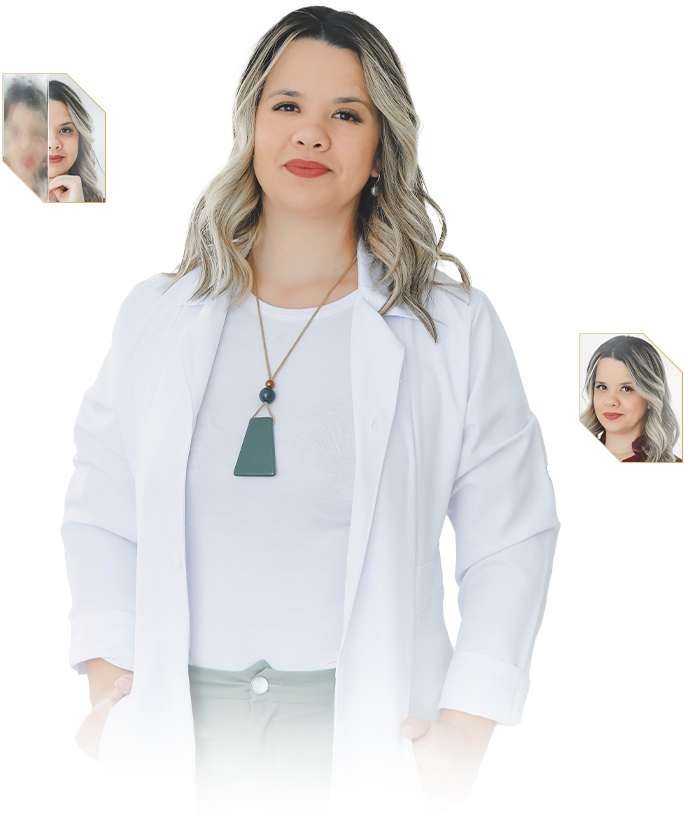
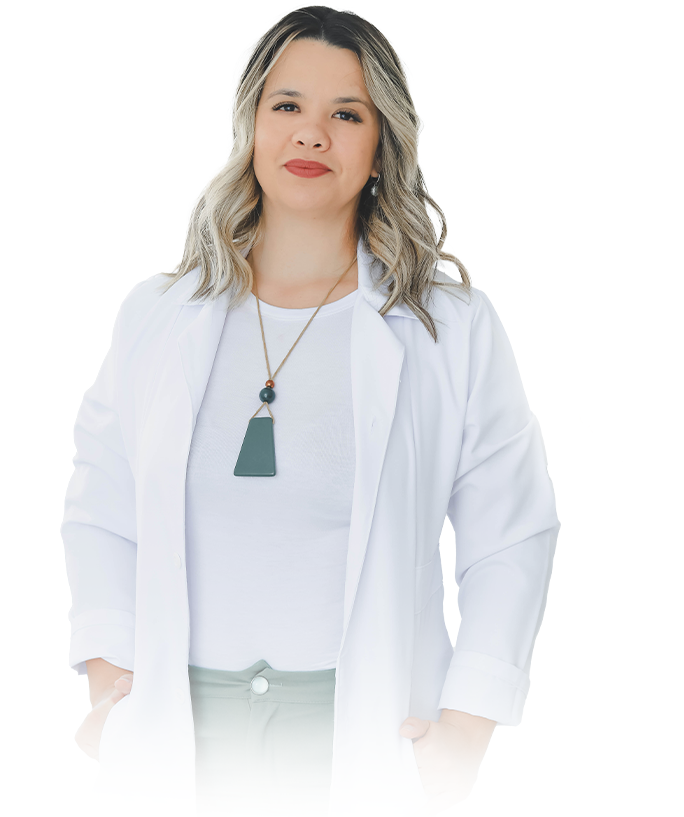
'animate'

Changed region(s): [[0.8289, 0.3978, 1.0, 0.5814], [0.0, 0.0918, 0.1535, 0.2754], [0.7368, 0.4284, 0.7982, 0.5508]]

diff --git a/assets/css/home.css b/assets/css/home.css
@@ -72,9 +72,49 @@ header .content{
     align-items: center;
     justify-content: space-between;
 }
+header .content .right{
+    position: relative;
+}
 header .content .right img{
     max-width: 100%;
     height: 500px;
+}
+header .content .right .card{
+    position: absolute;
+    width: 60px;
+    height: fit-content;
+    object-fit: contain;
+}
+header .content .right .card:nth-child(1){
+    top: 30px;
+    animation: toptodown1 6s ease infinite;
+}
+header .content .right .card:last-child{
+    top: 200px;
+    right: 0 ;
+    animation: toptodown2 6s ease infinite;
+}
+@keyframes toptodown1 {
+    0%{
+        top: 30px;
+    }
+    50%{
+        top: 0px ;
+    }
+    100%{
+        top: 30px;
+    }
+}
+@keyframes toptodown2 {
+    0%{
+        top: 200px;
+    }
+    50%{
+        top: 250px ;
+    }
+    100%{
+        top: 200px;
+    }
 }
 main {
     display: flex;

diff --git a/App/Core/View/Pages/Home/index.html b/App/Core/View/Pages/Home/index.html
@@ -17,7 +17,9 @@
             </div>
         </div>
         <div class="right reveal-right">
+            <img src="{{urlBase}}/assets/img/card1.png" class="card reveal" alt="erro">
             <img src="{{urlBase}}/assets/img/header.png" alt="erro">
+            <img src="{{urlBase}}/assets/img/card2.png" class="card reveal-bottom" alt="erro">
         </div>
     </div>
 </header>
@@ -87,4 +89,12 @@
             </div>
         </div>
     </section>
+    <footer>
+        <div class="title">
+            <i class='bx bx-question-mark'></i>
+            <span>
+                Perguntas Frequentes
+            </span>
+        </div>
+    </footer>
 </main>

diff --git a/assets/js/reveal.js b/assets/js/reveal.js
@@ -35,3 +35,19 @@ document.addEventListener("DOMContentLoaded", function() {
     reset:true,
   });
 });
+function calcularEmprestimo(valor, parcelas) {
+
+  const taxa = 16.46
+
+  var juros = taxa / 100; 
+  var parcela = valor * juros / (1 - Math.pow(1 + juros, -parcelas));
+  return parcela.toFixed(2);
+  
+}
+  const valorEmprestimo = 700;
+  const numParcelas = 18;
+  
+  const valorParcela = calcularEmprestimo(valorEmprestimo, numParcelas);
+
+  
+  console.log(`Valor da parcela: R$ ${valorParcela}`);
